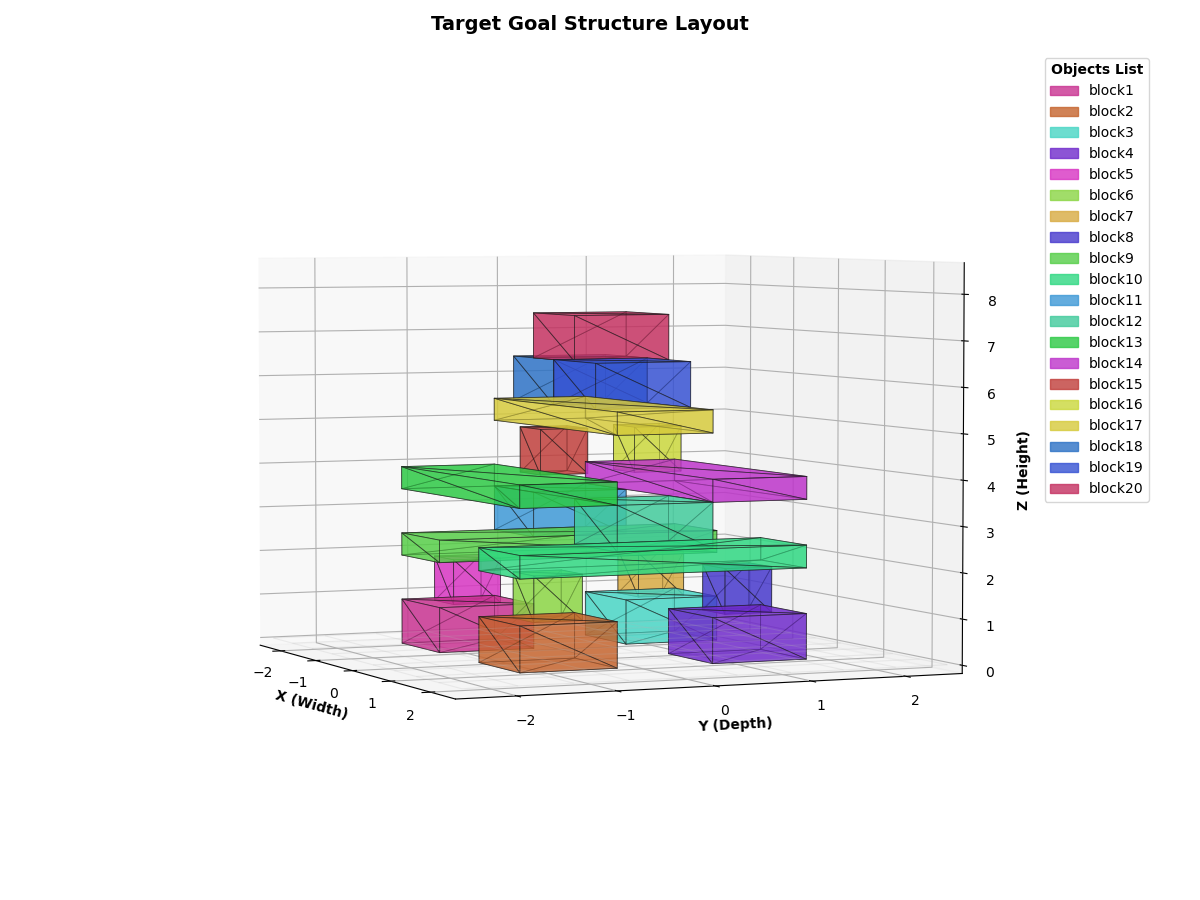
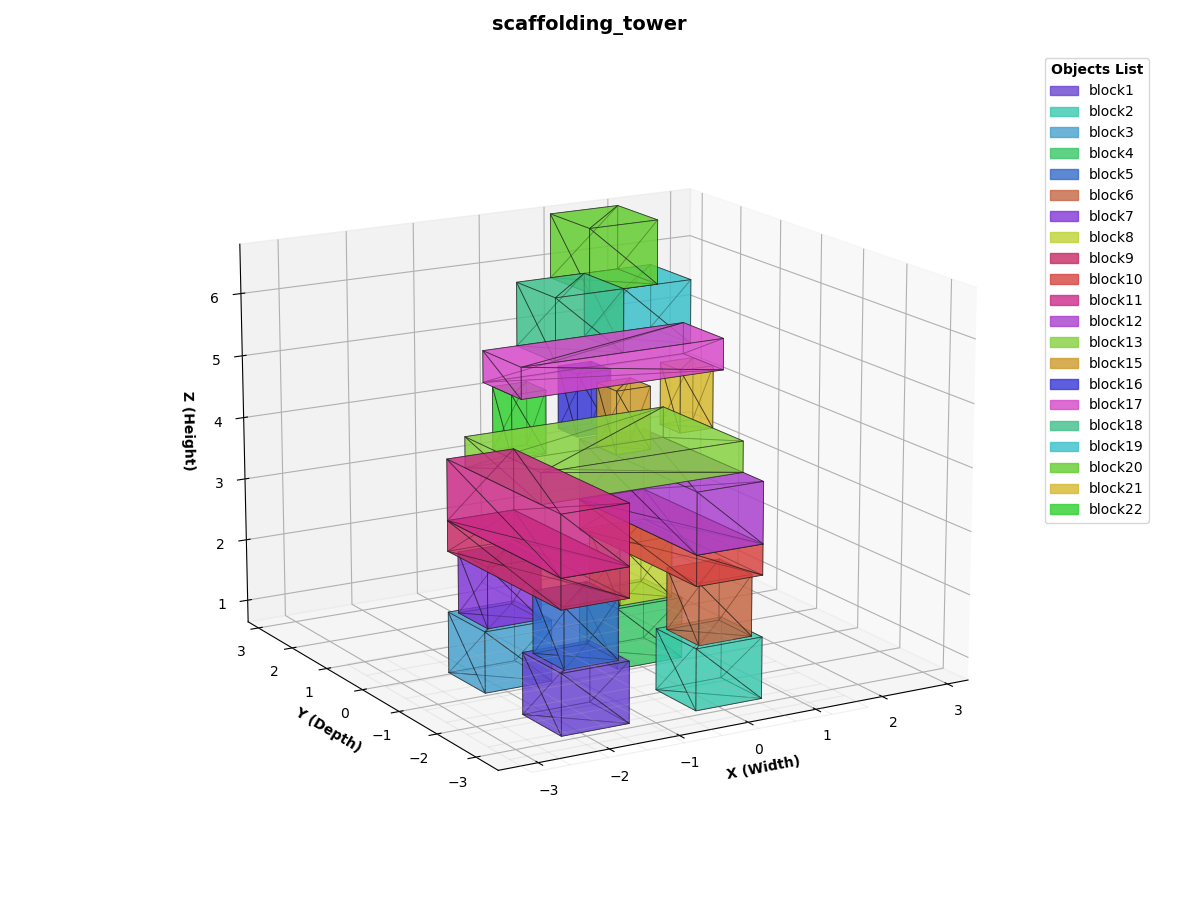
Improve test script and make more plots.

diff --git a/modular_construction_task_planner/modular_construction_task_planner/scripts/test_stable_planner.py b/modular_construction_task_planner/modular_construction_task_planner/scripts/test_stable_planner.py
@@ -17,22 +17,21 @@ from modular_construction_task_planner.scripts.stability import (
 from modular_construction_task_planner.scripts.block_sequence_animator import TrimeshBlockAnimator
 from path_planner.path_planner_node import GridGraph, OCCUPANCY
 
-def main():
-    animate = False
-    show = True
+def main(problem_name:str = "scaffolding_tower", show: bool = False, animate: bool = False, h: HEURISTIC = HEURISTIC.STABLE):
     goal_linked_state = None
     problem_config_path = "src/object_rearrangement_ros2_sim/mpnp_simulation/config/problem_configs/"
-    problem_name = "scaffolding_tower"
     world = parse_configs_to_world(problem_name, problem_config_path)
     for ent in world.entities.entities:
         print(f"{ent.name}: {ent.state}")
 
     init_config = safe_load(open(f"{problem_config_path}/{problem_name}/init.yaml", 'r'))
     goal_config = safe_load(open(f"{problem_config_path}/{problem_name}/goal.yaml", 'r'))
-    colors = visualize_goal_structure(goal_config, show=False)
     ground_mesh, support_graph = create_support_relation_graph(world)
     seq = find_feasible_block_sequence(support_graph)
-    visualize_support_node_graph(support_graph, colors=colors, show=False)
+
+    if show:
+        colors = visualize_goal_structure(goal_config, title=problem_name, show=show)
+        visualize_support_node_graph(support_graph, colors=colors, show=show)
 
     if not seq:
         print("No valid block placement sequence found due to invalid supports.")
@@ -47,6 +46,7 @@ def main():
     }
 
     supp_results = {}
+    supp_res = ([], 0, 0)  # Initialize with empty scores
     block_sequences = []
     h = HEURISTIC.STABLE
     planner = OrderedLandmarksPlanner(world, action_dict)
@@ -71,68 +71,35 @@ def main():
         if animate:
             animator = TrimeshBlockAnimator(init_config, goal_config, block_sequence, colors)
             animator.run()
-
-    planner.reset()
-    h = HEURISTIC.STABLE_NAV
-    goal_linked_state = planner.run_stable_planner(support_graph, ground_mesh, h)
-    # goal_linked_state = planner.run_heuristic_planner(h)
-
-    if goal_linked_state:
-        plan, cost = planner.retrace_best_plan(goal_linked_state)
-        print(f"Goal linked state found using {h.name}! Total cost: {cost}")
-        lazy_nav_cost = planner.compute_lazy_nav_cost(plan)
-        print(f"Lazy navigation cost: {lazy_nav_cost}")
-        # full_nav_cost = planner.compute_full_nav_cost(plan)
-        block_sequence = []
-        for action in plan:
-            if action[0] == 'pick':
-                print(action[1][1])
-                block_sequence.append(action[1][1])
-
-        supp_res = planner.unpack_stability_results(goal_linked_state)
-        supp_results[h.name] = supp_res
-        block_sequences.append(block_sequence)
-
-        if animate:
-            animator = TrimeshBlockAnimator(init_config, goal_config, block_sequence, colors)
-            animator.run()
-        # animator.save_to_video(f'src/modular_contruction_task_planner/modular_construction_task_planner/modular_construction_task_planner/movies/{problem_name}.mp4')
-        # construction_animation = animate_construction_sequence(init_config, goal_config, block_sequence, colors, interval=500)
-        # construction_animation.save(f'src/modular_contruction_task_planner/modular_construction_task_planner/modular_construction_task_planner/movies/{problem_name}_full.gif', writer='pillow')
+            # animator.save_to_video(f'src/modular_contruction_task_planner/modular_construction_task_planner/modular_construction_task_planner/movies/{problem_name}.mp4')
+            # construction_animation = animate_construction_sequence(init_config, goal_config, block_sequence, colors, interval=500)
+            # construction_animation.save(f'src/modular_contruction_task_planner/modular_construction_task_planner/modular_construction_task_planner/movies/{problem_name}_full.gif', writer='pillow')
     else:
         print(f"Goal linked state not found :(.")
 
-    if show:
-        # Visualize stability over each step in the plan
-        # Visualize total support scores for each planner
-        # Visualize average support scores for each planner
-        fig, axs = plt.subplots(2, 1, figsize=(12, 5))
-        steps = np.arange(0, len(supp_results[h.name][0]), 1, dtype=int)
-        colors = ['b', 'r']
-        for i, (h_name, res) in enumerate(supp_results.items()):
-            axs[i].plot(steps, res[0], label=h_name, color=colors[i])  # Stability score at each step
-            axs[i].scatter(steps, res[0], s=100, c=colors[i])  # Highlight block placements
-            print(f"{h_name} - Average Support Score: {res[2]}, Total Support Score: {res[1]}, all scores: {res[0]}")
-        axs[0].set_title("Stability Score at Each Step")
-        axs[0].set_xlabel("Step")
-        axs[0].set_ylabel("Stability Score")
-        axs[0].legend()
-        axs[1].legend()
-
-        fig, axs = plt.subplots(1, 1, figsize=(12, 5))
-        for h_name, res in supp_results.items():
-            axs.bar(h_name, res[1], label=h_name)
-        axs.set_title("Total Support Score for Final Structure")
-        axs.set_ylabel("Total Support Score")
-        axs.legend()
-
-        fig, axs = plt.subplots(1, 1, figsize=(12, 5))
-        for h_name, res in supp_results.items():
-            axs.bar(h_name, res[2], label=h_name)
-        axs.set_title("Average Support Score for Final Structure")
-        axs.set_ylabel("Average Support Score")
-        axs.legend()
-        plt.show()
+    return supp_res
 
 if __name__ == "__main__":
-    main()
+    all_supp_results = {}
+    h = HEURISTIC.STABLE
+    problems = [ "quadriple_towers", "interlocking_pyramid", "scaffolding_tower" ]
+    colors = ['b', 'r', 'g']
+
+    for problem in problems:
+        print(f"Testing problem: {problem}")
+        supp_results = main(problem_name=problem, show=True)
+        all_supp_results[problem] = supp_results
+
+    fig, ax = plt.subplots(len(all_supp_results), 1, figsize=(6, 3 * len(all_supp_results)))
+    for i, (problem, res) in enumerate(all_supp_results.items()):
+        print(f"Results for {problem}")
+        stab_per_step = res[0]
+        steps = np.arange(0, len(stab_per_step), 1, dtype=int)
+        ax[i].plot(steps, stab_per_step, label=problem, color=colors[i])  # Stability score at each step
+        ax[i].scatter(steps, stab_per_step, s=100, c=colors[i])  # Highlight block placements
+        ax[i].set_ylabel("Stability Score")
+        ax[i].legend()
+        print(f"{problem} - Average Support Score: {res[2]}, Total Support Score: {res[1]}, all scores: {res[0]}")
+    ax[0].set_title(f"Stability Score at Each Step")
+    ax[i].set_xlabel("Step")
+    plt.show()

diff --git a/modular_construction_task_planner/modular_construction_task_planner/scripts/test_support_relation_graph.py b/modular_construction_task_planner/modular_construction_task_planner/scripts/test_support_relation_graph.py
@@ -35,8 +35,8 @@ def main():
     for obj_name, node in support_graph.items():
         print(f"Object: {obj_name}")
         print(f"  Supported: {node.supported} (Score: {node.current_support_score:.2f}/{node.support_threshold})")
-        print(f"  Supports: {[f'{name} (Score: {score:.2f})' for name, score, _ in node.supported_objects]}")
-        print(f"  Supported by: {[f'{name} (Score: {score:.2f})' for name, score, _ in node.supporting_objects]}")
+        print(f"  Supports: {[f'{name} (Score: {score:.2f})' for name, (score, _) in node.supported_objects.items()]}")
+        print(f"  Supported by: {[f'{name} (Score: {score:.2f})' for name, (score, _) in node.supporting_objects.items()]}")
         print()
 
     plt.show()
